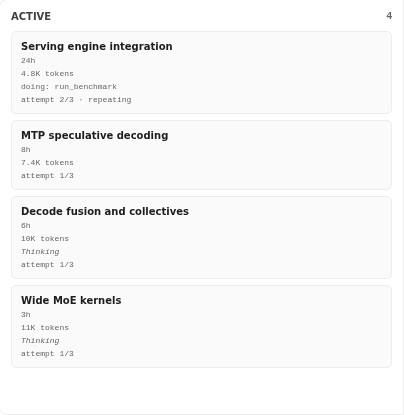
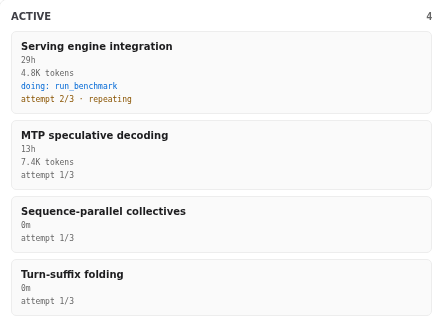
fix(web): render semantic colors for Kanban attempt/activity text
.kanban-items span, .kanban-items small (0,1,1) outranked the
single-class .attempt-badge-warning and .activity-mode-tool rules
(0,1,0) regardless of source order, so the retry badge and tool
activity label silently rendered as the container's default gray
instead of warning amber / accent blue, even though the Table layout
showed the same data correctly. Zero the container rule's specificity
with :where() (matching the existing pattern already used elsewhere in
this file) so any single-class override wins, present or future.

Adds a regression test asserting the Kanban badge/label's computed
color against the live-resolved --warning/--accent values. Recaptures
the two live-demo screenshots from a single paused instant so the
Kanban and Table captures agree, and fixes two doc-accuracy issues a
screenshot review caught: an overclaimed tab-tag on two operator-log
entries that never carry one, and an undocumented fourth exception
(workstreamAttempts/workstreamActivity) to the dashboard's cursor-pure
invariant. Also removes leftover scratch capture scripts.

Changed region(s): [[0.0297, 0.0917, 0.4752, 0.948], [0.0297, 0.0306, 0.1485, 0.0612], [0.9505, 0.0306, 0.9802, 0.0612]]

diff --git a/clients/web/e2e/campaign-live.spec.ts b/clients/web/e2e/campaign-live.spec.ts
@@ -1,4 +1,4 @@
-import {expect, test} from '@playwright/test';
+import {expect, test, type Page} from '@playwright/test';
 
 /**
  * The replay-as-live route streams the campaign fixture over Server-Sent Events
@@ -10,6 +10,21 @@ import {expect, test} from '@playwright/test';
 
 function recordedCount(text: string): number {
   return Number(/(\d+) recorded/.exec(text)?.[1] ?? '0');
+}
+
+/** What a color-valued custom property resolves to in this browser, e.g.
+ * `'rgb(138, 84, 0)'` for `--warning`. Lets a test compare an element's
+ * computed color against the variable it is meant to render, independent of
+ * whether the source uses hex, `rgb()`, or a named color. */
+async function resolvedColorVariable(page: Page, variableName: string): Promise<string> {
+  return page.evaluate(name => {
+    const probe = document.createElement('span');
+    probe.style.color = `var(${name})`;
+    document.body.appendChild(probe);
+    const resolved = getComputedStyle(probe).color;
+    probe.remove();
+    return resolved;
+  }, variableName);
 }
 
 test('streams the campaign in live and completes', async ({page}) => {
@@ -71,4 +86,33 @@ test('an active workstream shows its activity label in the table layout too', as
   // first workstream partway through its run, well before the campaign
   // completes.
   await expect(table.locator('.activity-label').first()).toBeVisible({timeout: 40_000});
+});
+
+test('the Kanban attempt badge and activity label render their semantic colors', async ({page}) => {
+  // Regression test: `.kanban-items span, .kanban-items small` (specificity
+  // 0,1,1) used to outrank the single-class `.attempt-badge-warning` and
+  // `.activity-mode-tool` rules (0,1,0) regardless of source order, so both
+  // silently rendered as the container's default gray instead of the warning
+  // amber / accent blue the Table layout already showed for the same data.
+  await page.goto('/?campaign-live&interval=50');
+  await expect(page.getByRole('heading', {name: 'Qwen3.5-397B-A17B on 4x MI300A'})).toBeVisible();
+
+  const active = page.getByRole('region', {name: 'Active'});
+  const warningBadge = active.locator('.attempt-badge-warning').first();
+  const toolActivity = active.locator('.activity-mode-tool').first();
+
+  // The replay script drives a repeated setup failure (warning badge) and a
+  // concurrent tool-mode activity label for the same workstream.
+  await expect(warningBadge).toBeVisible({timeout: 20_000});
+  await expect(toolActivity).toBeVisible();
+
+  const [badgeColor, activityColor, expectedWarning, expectedAccent] = await Promise.all([
+    warningBadge.evaluate(el => getComputedStyle(el).color),
+    toolActivity.evaluate(el => getComputedStyle(el).color),
+    resolvedColorVariable(page, '--warning'),
+    resolvedColorVariable(page, '--accent'),
+  ]);
+
+  expect(badgeColor).toBe(expectedWarning);
+  expect(activityColor).toBe(expectedAccent);
 });

diff --git a/clients/web/src/styles.css b/clients/web/src/styles.css
@@ -226,7 +226,7 @@ button { color: inherit; }
 .kanban-items > button { background: var(--surface-2); border: 1px solid var(--border); border-radius: 5px; cursor: pointer; display: grid; gap: 4px; padding: 9px; text-align: left; }
 .kanban-items > button:hover { background: var(--surface-hover); border-color: var(--text-faint); }
 .kanban-items strong { color: var(--text-primary); font-size: 10px; }
-.kanban-items span, .kanban-items small { color: var(--text-faint); font-family: 'DM Mono',monospace; font-size: 8px; }
+:where(.kanban-items) :where(span, small) { color: var(--text-faint); font-family: 'DM Mono',monospace; font-size: 8px; }
 .attempt-badge { color: var(--text-faint); }
 .attempt-badge-warning { color: var(--warning); }
 .activity-label { color: var(--text-muted); font-style: italic; }

diff --git a/docs/design/live-campaign-streaming.md b/docs/design/live-campaign-streaming.md
@@ -721,13 +721,15 @@ The reducer guarantees these properties, and the tests assert them:
   builder and the fold are inverses; this is the central round-trip property and
   the thing that makes the prototype a faithful reference for the real backend.
 - The operator-intervention timeline (`FoldState.operatorActions`) is
-  append-only and, like token spend and run status, is not part of the
-  reconstructed `CampaignRecord`: it has no finished-record counterpart to
-  round-trip against. `operator-timeline.ts`'s `dwellTime` and
-  `steeredPromptTail` are pure selectors over it, taking their reference point
-  (`now`, a list of known executions) as an explicit argument rather than
-  reading a clock or a live subscription, so they are tested with fixed data
-  and never sleep.
+  append-only and, like token spend, run status, and the per-workstream
+  attempt and activity maps (`FoldState.workstreamAttempts`,
+  `workstreamActivity`), is not part of the reconstructed `CampaignRecord`:
+  none has a finished-record counterpart to round-trip against, so none
+  rewinds when the cursor scrubs backward. `operator-timeline.ts`'s
+  `dwellTime` and `steeredPromptTail` are pure selectors over it, taking
+  their reference point (`now`, a list of known executions) as an explicit
+  argument rather than reading a clock or a live subscription, so they are
+  tested with fixed data and never sleep.
 
 Keeping the fold pure is what lets the whole live path be tested with generated
 frame sequences and no sleeps (see "Verification").
@@ -829,8 +831,11 @@ The table layout renders the same attempt badge and activity label for the
 same workstream, confirming both layouts read from one live data source.
 
 ![Operator-action log with resume and steer entries](./assets/campaign-live-04-operator-log-timeline.png)
-The operator-action log grows entry by entry: pause, resume, and a steered
-prompt with its quoted text, each tagged with the issuing tab's id.
+The operator-action log grows entry by entry: pause, resume, a steered
+prompt with its quoted text, and the later "Steer applied" entry. Resume
+and the steered prompt carry the issuing tab's id; pause and "Steer
+applied" carry none, since each lands at an invocation boundary with no
+requesting client.
 
 ![Completed dashboard with the connection dot still fresh](./assets/campaign-live-05-completed-dashboard-fresh.png)
 After the run completes, the performance graph shows all 111 measurements
@@ -940,7 +945,10 @@ was itself a setup failure with identical error text. Mirrored into
 `server/events.py` with no `project_event()` case needed. On the frontend: a
 `workstream-attempt` frame and an `AttemptBadge` showing "attempt N/limit"
 with a warning marker on a repeated error, rendered in both the Kanban and
-table workstream layouts.
+table workstream layouts. Like `operatorActions` (see "Correctness
+properties"), `FoldState.workstreamAttempts` is a plain upsert-by-id map
+with no stored history, so the badge always shows the latest attempt, not
+the attempt as of the scrubbed cursor.
 
 ### 3. Retry waits, GPU contention, local validation, and per-turn cost
 
@@ -974,7 +982,11 @@ instrumentation:
 All four are additive `CoreEventType` members mirrored into `server/events.py`
 with no `project_event()` case needed beyond the generic fallthrough. On the
 frontend: a `workstream-activity` frame (mode, summary, current tool) folds
-into an `ActivityLabel` shown next to each workstream.
+into an `ActivityLabel` shown next to each workstream. Like
+`workstreamAttempts` (see "Correctness properties"),
+`FoldState.workstreamActivity` is also a plain upsert-by-id map with no
+stored history, so the label always shows the latest activity, not the
+activity as of the scrubbed cursor.
 
 ### 4. Judge and gate review transparency
 
